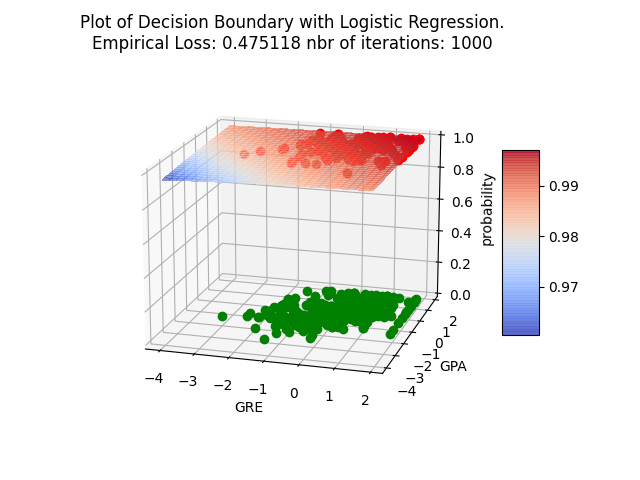
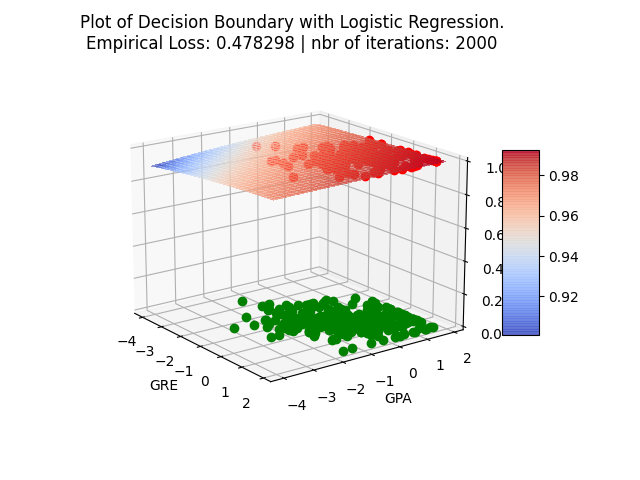
fixing logistic regression and adding TP4 script

diff --git a/TP4/nonLinearTransformer.py b/TP4/nonLinearTransformer.py
@@ -1,0 +1,58 @@
+import numpy as np
+
+# sigmoid activation function
+def hw(x,w):
+    '''
+    x: a vector
+    '''
+    return 1/(1 + np.exp(-w.T @ x))
+
+# cost function of the logistic regression
+def Ls(X,Y,w):
+    """
+    X: a list of vectors x_i
+    Y: the list of labels y_i associated
+    w: weight vector
+    """
+    return np.mean( [-Y[i] * np.log(hw(X[i], w)) - (1 - Y[i]) * np.log(1 - hw(X[i], w)) for i in range(len(Y))] )
+
+# gradient of cost function
+def DLs(X,Y,w):
+    """
+    x: a vector x_i
+    y: the label y_i associated
+    w: weight vector
+    """
+    grad = []
+    d, m = len(w), len(Y)
+    for j in range(d):
+        grad.append( np.mean([ (hw(X[i], w) - Y[i])*X[i][j] for i in range(m) ]) )
+    return np.array(grad)
+
+# logistic regression algorithm
+def LogisticRegression(X, Y, lr = 0.1, Tmax = 1000, eps = 0.2):
+    t = 0 #initialisation de compteur
+    w = np.zeros(X.shape[1])
+    ls = Ls(X,Y,w)
+    print(Ls)
+    while(ls > eps and t < Tmax):
+        if not(t%100) : print("iter:",t,"\t| empirical loss: ", "{0:.6f}".format(ls))
+        w -= lr * DLs(X,Y,w)
+        ls = Ls(X,Y,w)
+        t += 1
+    return w, t, ls
+
+# polynomial mapping for multidimensional input
+def psy(x,q):
+    """
+    x: input vector
+    q: polynom's degree
+    """
+    PSI_Q = [np.power(x,i) for i in range(1,q)]
+    d = x.size
+    w = [1] + [e for e in x]
+    for i in range(q-1):
+        for j in range(d):
+            for k in range(d):
+                w.append(PSI_Q[i][j] * x[k])
+    return np.array(w)

diff --git a/TP4/main.py b/TP4/main.py
@@ -1,0 +1,37 @@
+import csv
+import numpy as np
+import matplotlib.pyplot as plt
+from nonLinearTransformer import *
+
+X1, X2, Y1, Y2, X, Y = [],[],[],[],[],[]
+
+# open and format data 
+with open('ex2data2.csv', mode='r') as csv_file:
+    csv_reader = csv.DictReader(csv_file)
+    for row in csv_reader:
+        if row["y"] == "1": 
+            X1.append(float(row["x1"]))
+            Y1.append(float(row["x2"]))
+        else : 
+            X2.append(float(row["x1"]))
+            Y2.append(float(row["x2"]))
+        X.append([1,float(row["x1"]), float(row["y"])])
+        Y.append(float(row["y"]))
+
+X, Y = np.asarray(X), np.asarray(Y)
+
+# X_ = np.asarray([psy(x,2) for x in X])
+w0, t, ls = LogisticRegression(X, Y, eps = 0.1)
+print("FINAL RESULTS:")
+print("optimal weight vector: ", w0,"\t| empirical loss: ", "{0:.6f}".format(ls))
+
+# plot results
+plt.plot(X1,Y1,'+', color="black", label = 'y = 1')
+plt.plot(X2,Y2,'o', color="yellow", label = 'y = 0')
+
+
+plt.xlabel("Microship Test 1")
+plt.ylabel("Microship Test 2")
+plt.legend()
+plt.title("data plot")
+plt.show()

diff --git a/TP2/logistic_regression.py b/TP2/logistic_regression.py
@@ -29,17 +29,13 @@ def gradient(X,Y,w):
     return dL / n
 
 # logistic regression
-def LogisticRegression(X,Y, lr = 0.5, Tmax = 1000):
-    '''
-    X: matrix of vectors x_i
-    Y: vector of labels (scalars, 1 or 0) y_i
-    lr: learning rate for the gradient descent, 0.5 by default
-    Tmax: maximum number of iteration
-    '''
-    w = np.array([0.]*len(X[0]))
-    n, t = len(X), 0
-    while lg.norm(gradient(X,Y,w)) != 0 and t < Tmax :
-        w -= gradient(X, Y, w) * lr
-        print("t=",t,"\t| empirical loss: ", "{0:.6f}".format(loss(X,Y,w)))
+def LogisticRegression(X,Y, lr = 0.1, Tmax = 2000, epsilon = 0.4):
+    t = 0 #initialisation de compteur
+    w = np.zeros(X.shape[1])
+    Ls = loss(X,Y,w)
+    while(np.linalg.norm(Ls) > epsilon and t < Tmax):
+        print("iter:",t,"\t| empirical loss: ", "{0:.6f}".format(Ls))
+        w -= lr * gradient(X,Y,w)
+        Ls = loss(X,Y,w)
         t += 1
-    return w, t, loss(X,Y,w)
+    return w, t, np.linalg.norm(Ls)

diff --git a/TP2/mainLogistic.py b/TP2/mainLogistic.py
@@ -56,7 +56,7 @@ fig.colorbar(surf, shrink=0.5, aspect=5)
 ax.set_xlabel("GRE")
 ax.set_ylabel("GPA")
 ax.set_zlabel("probability")
-ax.set_title("Plot of Decision Boundary with Logistic Regression.\nEmpirical Loss: "+"{0:.6f}".format(ls)+" nbr of iterations: "+str(t))
+ax.set_title("Plot of Decision Boundary with Logistic Regression.\nEmpirical Loss: "+"{0:.6f}".format(ls)+" | nbr of iterations: "+str(t))
 
 plt.show()
 

diff --git a/TP3/polynomial_regression.py b/TP3/polynomial_regression.py
@@ -42,7 +42,7 @@ def LinearRegressionforPoly(X,Y,n):
     w = np.dot(Aplus,b)
     return w, loss(X_,Y,w)
 
-# polynomial regression mapping for multidimensional input
+# polynomial mapping for multidimensional input
 def psy(x,q):
     """
     x: input vector
